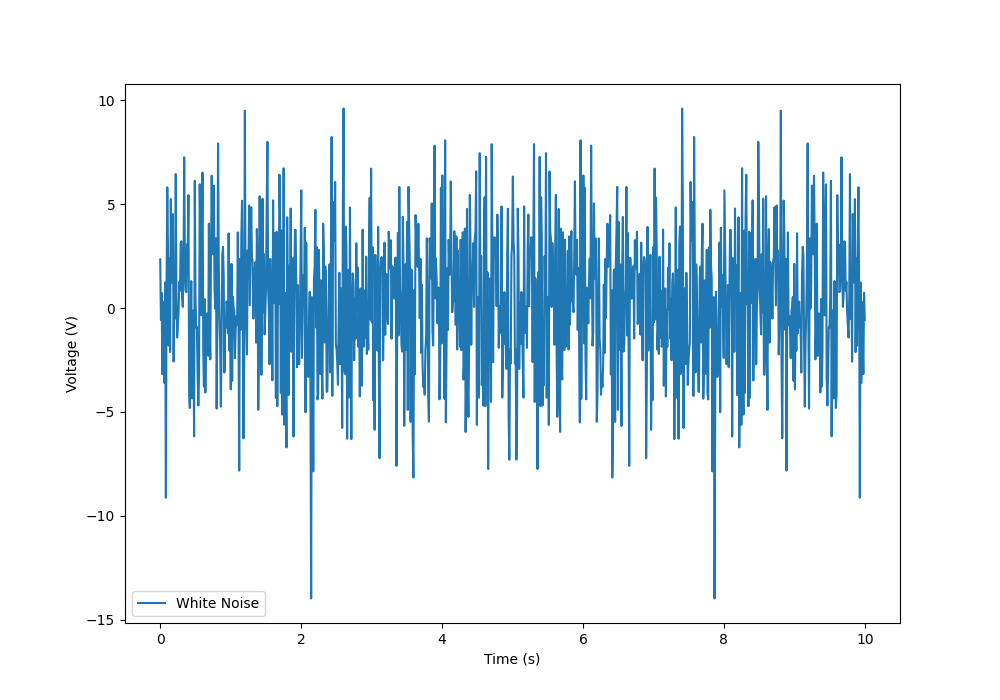
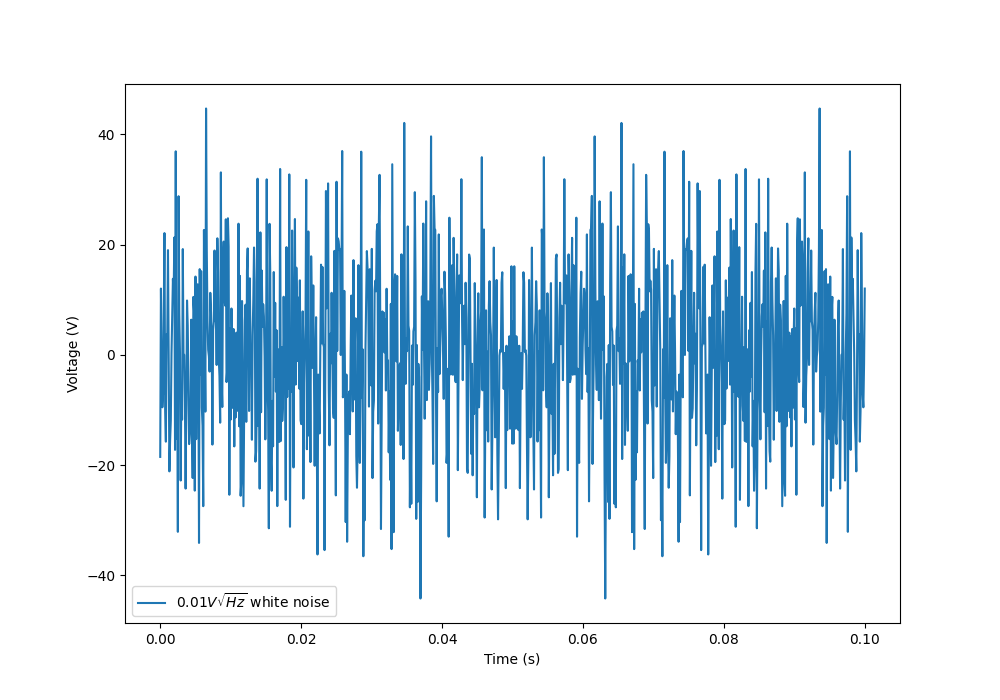
Added more info to the graph showing white noise.

diff --git a/content/electronics/circuit-design/electrical-noise/main.py b/content/electronics/circuit-design/electrical-noise/main.py
@@ -4,26 +4,21 @@ import pandas as pd
 import scipy.signal
 
 def main():
-    sine_wave_period_s = 10.0
     number_samples = 1000
-    sampling_frequency_hz = number_samples / sine_wave_period_s
+    sample_rate_Hz = 10e3
+    nyquist_freq_Hz = sample_rate_Hz/2
+    end_time_s = number_samples/sample_rate_Hz
 
-    data_x = np.linspace(0, sine_wave_period_s, number_samples)
-
-    # Create our signal
-    signal_pure = np.sin((data_x/sine_wave_period_s)*2*np.pi)
-
-    # Add some additive white gaussian noise (AWGN)
-    rho = 10e-3
     # noise = white_noise(rho=rho, sr=sr, n=number_samples)
-    noise = awgn(signal_pure, 10)
-    signal_noisy = signal_pure + noise
+    time_s = np.linspace(0, end_time_s, number_samples)
+    spectral_noise_density_VsqHz = 10e-3
+    noise = white_noise(spectral_noise_density_VsqHz, sample_rate_Hz, number_samples)
 
     fig, axes = plt.subplots(1, 1, figsize=(10, 7), squeeze=False)
 
     # Create a plot of the noise
     ax = axes[0][0]
-    ax.plot(data_x, noise, label='White Noise')
+    ax.plot(time_s, noise, label=f'${spectral_noise_density_VsqHz*1000:.0f}mV\sqrt{{Hz}}$ white noise, in a bandwidth of 0-{nyquist_freq_Hz/1000:.0f}kHz')
     ax.set_xlabel('Time (s)')
     ax.set_ylabel('Voltage (V)')
     ax.legend()
@@ -35,7 +30,7 @@ def main():
 
     # Create a plot of the noise
     ax = axes[0][0]
-    ax.plot(data_x, noise_fft, label='White Noise')
+    ax.plot(time_s, noise_fft, label=f'${spectral_noise_density_VsqHz} V\sqrt{{Hz}}$ white noise')
     ax.set_xlabel('Time (s)')
     ax.set_ylabel('Voltage (V)')
     ax.legend()
